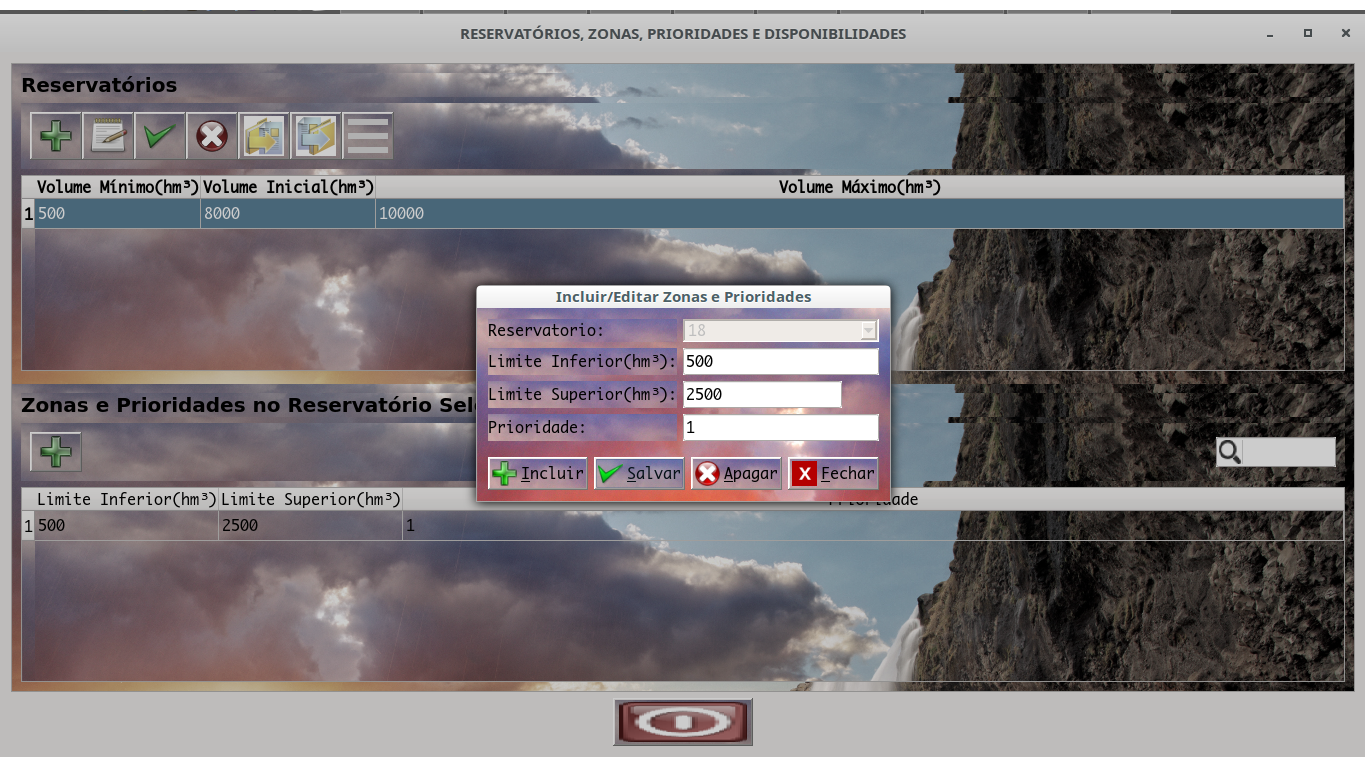
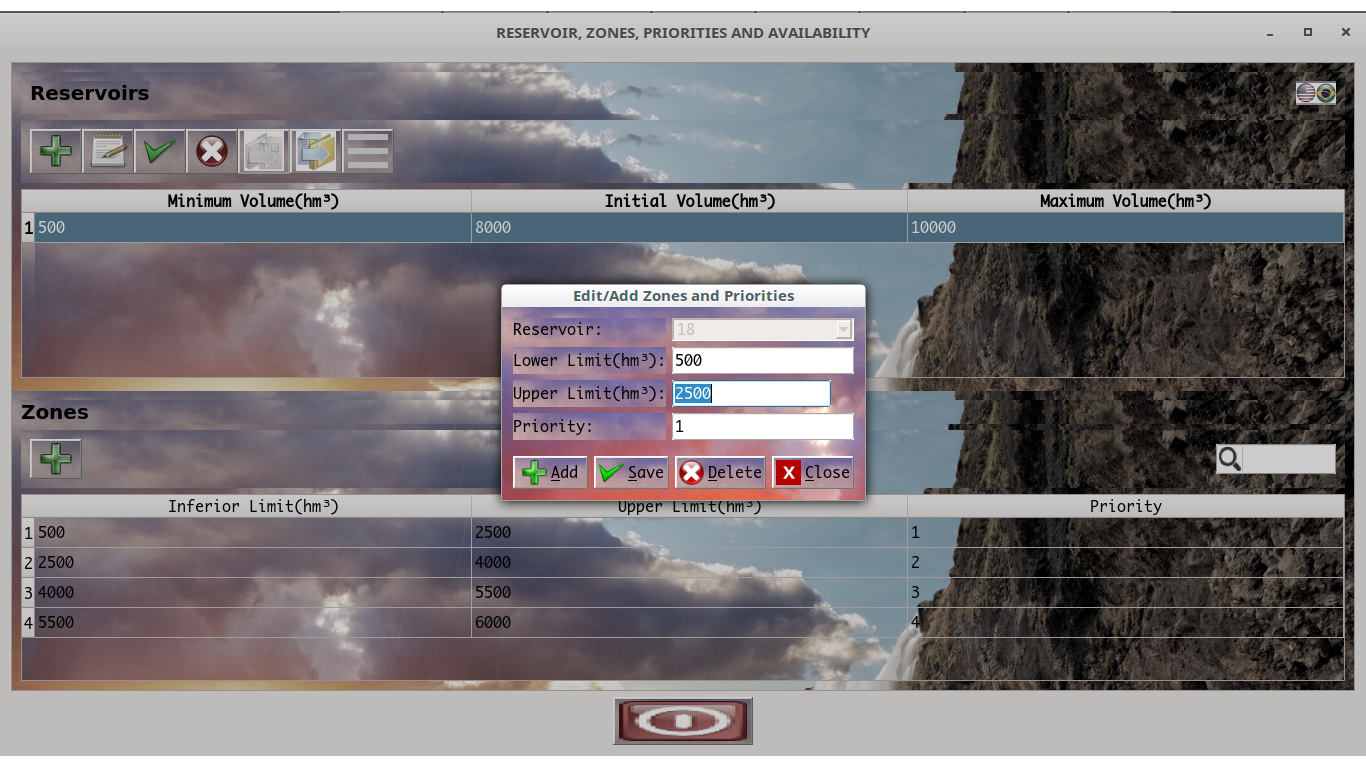
Adjustes in README

diff --git a/README.md b/README.md
@@ -5,11 +5,11 @@ The idea of that simple project is based in some rules presented on (1) and (2) 
 
 *[SergioVieira GitHub](https://github.com/sergiosvieira/funceme-selecao-siga/blob/master/tasks.md)
 
- It's show the big power of uses with C/C++ languages and that languages modernizing and facilitating much of tedious  configurations needed in that types of projects.
+ It's showing the big power of uses with C/C++ languages and that languages modernizing and facilitating much of tedious  configurations needed in that types of projects.
 
 The focus here is not implement the more advanced interface of the universe and the more complete project possible but show more and more resources possible in one unique project as base for other implementations or ideas. Any person can use and studied each idea or advance that idea as to desire.
 
-For that moment the GUI is in Portuguese(pt_BR) only, but, on available time I will be localize for more languages.
+For that moment the GUI is in Portuguese(pt_BR) and English(en_US) only, but, on available time I will be localize for more languages.
 
 Things that you'll can view here is:
 
@@ -35,6 +35,8 @@ Things that you'll can view here is:
 
 * All types of SIGNALS between mouse and keyboard keys actions in various components.
 
+* Translations for English and Portuguese.
+
 * Not have 1000 lines of code and have one bit part of one catalog for Reservoir operation and some features for zones and priorities.
 
 * [The backgroung is one image for one local that I like much: Iceland.](https://vividscreen.info/pic/iceland/20249/for-widescreen-desktop-pc-1920x1080-full-hd)
@@ -46,7 +48,7 @@ All operations can be executed about explain the tootips.
 
 ![Main Application Dialog](images/main.png)
 
-The first step is register one reservoir using the QTableView "Reservatórios" clicking on plus signal button on as in image below:
+The first step is register one reservoir using the QTableView "Reservoir" clicking on plus signal button on as in image below:
 
 ![Click on add button...](resources/images/add.png)
 
@@ -56,17 +58,17 @@ Click after in Save button:
 
 ![Save button](resources/images/ok.png)
 
-The next step is include zones and priorities for zones. Said that with one "Reservatório" selected on your own QTableView you need click on plus signal button on QTableView "Zonas e Prioridades no Reservatório Selecionado":
+The next step is include zones and priorities for zones. Said that with one "Reservoir" selected on your own QTableView you need click on plus signal button on QTableView "Zones and Priorities on Selected Reservoir":
 
 ![Click on add button...](resources/images/add.png)
 
 In that step show one form with fields with rules for values  as that:
 
-* Limite Inferior(hm³) < Limite Superior(hm³) <=  Volume Máximo(hm³)
+* Lower Limit(hm³) < Upper Limit(hm³) <=  Maximum Volume(hm³)
 
 Other rule is:
 
-* Priotity(Prioridade) is always growing starting from 1(one) and not repeated and the fields on QTableView for zones is ordered for Priority.
+* Priotity is always growing starting from 1(one) and not repeated and the fields on QTableView for zones is ordered for Priority.
 
 ![Add Zone Form...](images/add_zone.png)
 
@@ -78,7 +80,7 @@ Other rule on same form is that you can delete only the last zone with the major
 
 ![Delete image](resources/images/remove.png)
 
-After catalog "Reservatórios"(Reservoir) and "Zonas e Prioridades"(Zones and Priorities) you get the image below:
+After catalog "Reservoir" and "Zones and Priorities" you get the image below:
 
 ![Register complete](images/registred_rep_zones.png)
 
